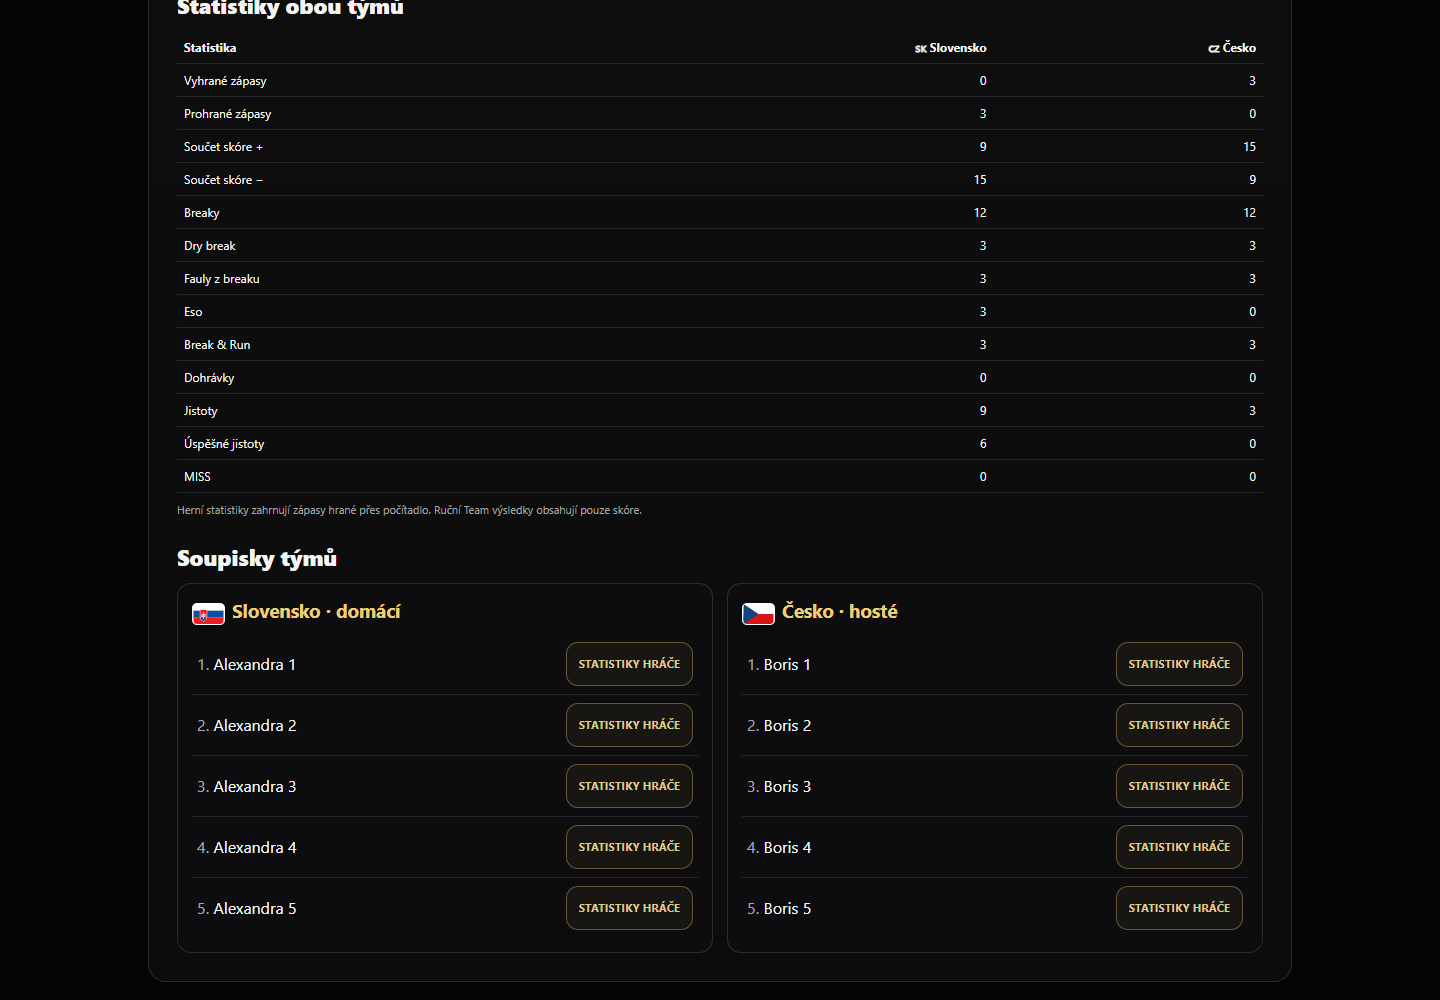
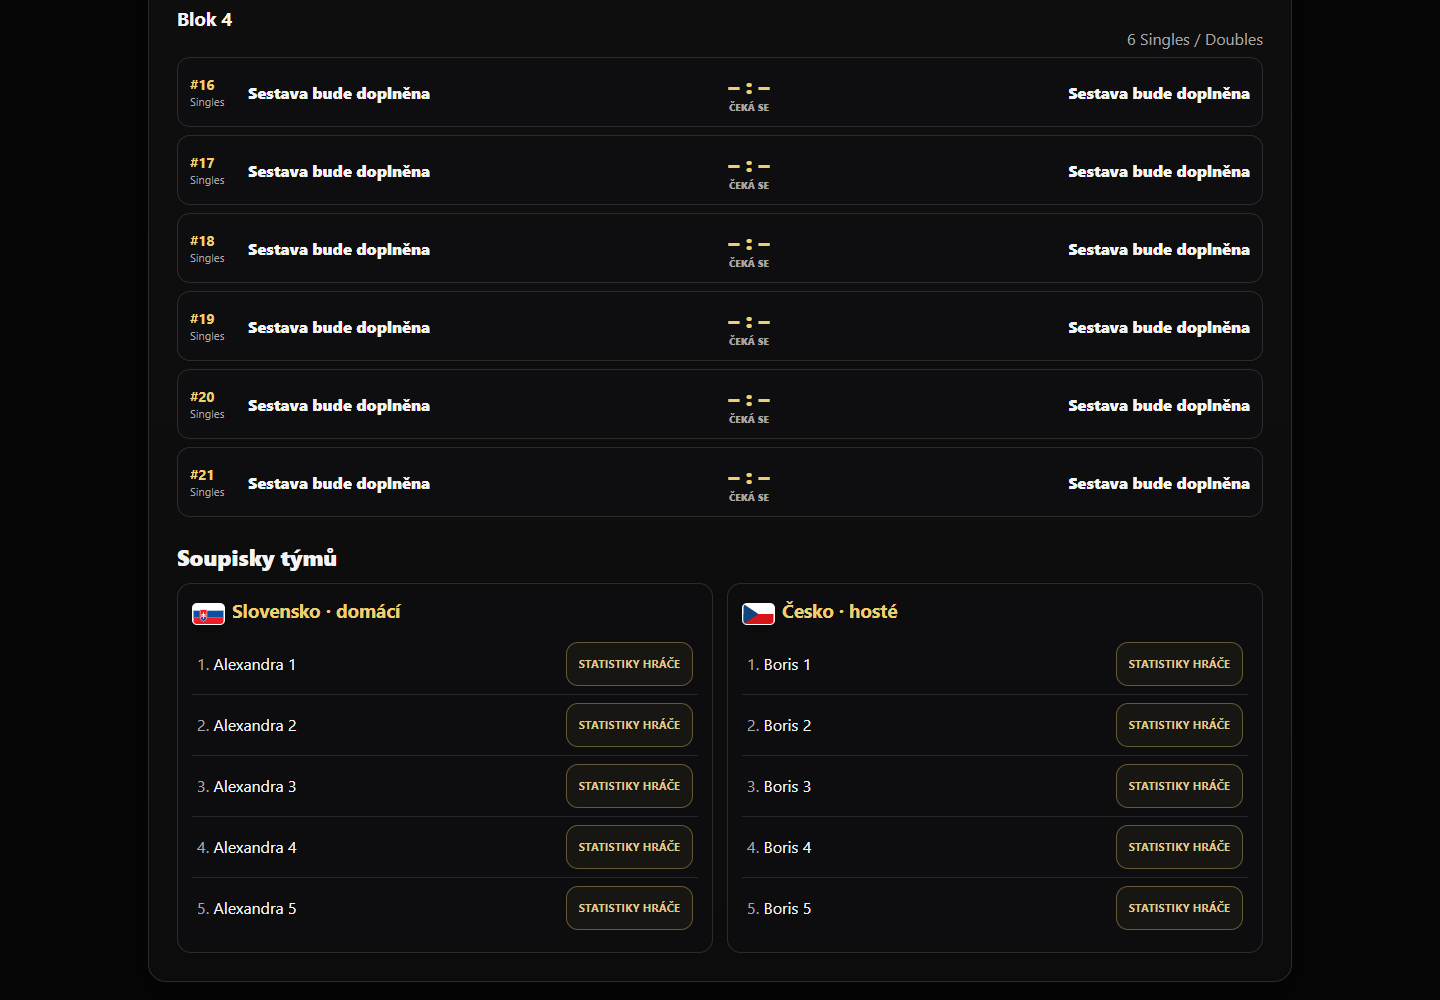
Simplify Federal Cup viewer to available graphical reports

diff --git a/index.html b/index.html
@@ -3132,8 +3132,6 @@ html[data-theme="light"] #leagueSchedule .history-item .muted{
       <div id="fc26ViewerProgress"></div>
       <h2 class="fc26-view-title2">Program a výsledky</h2>
       <div id="fc26ViewerSchedule"></div>
-      <h2 class="fc26-view-title2">Statistiky obou týmů</h2>
-      <div id="fc26ViewerStats"></div>
       <h2 class="fc26-view-title2">Soupisky týmů</h2>
       <div id="fc26ViewerRosters"></div>
       <dialog id="fcReportDialog" aria-labelledby="fcReportDialogTitle">
@@ -30029,11 +30027,12 @@ function renderStats(){
   function renderFederalCupViewer(){
     if(!$('fc26ViewerScoreboard'))return;
     const conf=cfg();
-    const reportYear=Number(conf.year),reportSources=Number.isInteger(reportYear)?federalCalculateSeason(data.matches,conf,reportYear).fixtures:[];
+    const reportYear=Number(conf.year),reportData=Number.isInteger(reportYear)?federalReportData(data.matches,conf,reportYear):null;
+    const reportSources=Number.isInteger(reportYear)?federalCalculateSeason(data.matches,conf,reportYear).fixtures:[];
     const admin=canEdit();
     $('fc26ViewerEditor').classList.toggle('hidden',!admin);
     $('fc26ViewerNotice').textContent=cloudAuthenticated
-      ? 'Aktuální výsledky se pravidelně obnovují. U odehraných Singles a Doubles lze otevřít detailní statistiky.'
+      ? 'Aktuální výsledky se pravidelně obnovují. U dokončených zápasů s uloženým záznamem lze otevřít grafický report.'
       : 'Pro aktuální cloudové výsledky je potřeba přihlášení. Zobrazená data mohou být ze zařízení.';
     const a=teamAggregate(0),b=teamAggregate(1);
     const state=raceState(),done=state.played;
@@ -30060,6 +30059,7 @@ function renderStats(){
     function fixture(f){
       const reportSource=reportSources.find(s=>s.fixtureNo===f.n&&s.source==='detailed');
       const m=reportSource?federalStatsRows(data.matches).filter(m=>m.id===reportSource.matchId&&Number(m.federalCupLink?.year)===reportYear&&Number(m.federalCupLink?.fixtureNo)===f.n&&m.endedAt&&!['incomplete','playing','active'].includes(m.status)).sort((a,b)=>(Date.parse(b.endedAt)||0)-(Date.parse(a.endedAt)||0))[0]:null;
+      const reportAvailable=!!(m&&federalReportOrder(conf)&&reportData.selected.some(s=>s.fixtureNo===f.n&&s.matchId===m.id&&s.source==='detailed')&&['singles','doubles','team'].includes(m.federalCupLink?.type)&&federalReportWinner(m.scores)!==null);
       const r=f.t==='team'?conf.teamResults?.[f.n]:null;
       const l=lineup(f.n);
       const finished=!!m||r?.done===true;
@@ -30078,26 +30078,13 @@ function renderStats(){
         '<div><div class="fc26-view-match-score">'+score+'</div>'+
         '<div class="fc26-view-match-status">'+(outsideResult?'MIMO HODNOCENÍ':cancelled?'NEHRAJE SE':finished?'DOHRÁNO':'ČEKÁ SE')+'</div></div>'+
         '<div class="fc26-view-match-side right">'+esc(String(sideName('b',1)))+'</div>'+
-        '<div class="fc26-view-match-detail">'+reportButton('match','STATISTIKY ZÁPASU','data-fixture="'+f.n+'" data-match-id="'+esc(String(m?.id||''))+'"')+
-        (m?'<button type="button" class="btn" data-fc26-view-match="'+esc(String(m.id||''))+'">DETAILNÍ STATISTIKY ZÁPASU</button>':'')+'</div></div>';
+        (reportAvailable?'<div class="fc26-view-match-detail">'+reportButton('match','STATISTIKY ZÁPASU','data-fixture="'+f.n+'" data-match-id="'+esc(String(m.id))+'"')+'</div>':'')+'</div>';
     }
     $('fc26ViewerSchedule').innerHTML=[1,2,3,4].map(block=>
       '<div class="fc26-block"><div class="fc26-block-head"><h3>Blok '+block+'</h3>'+
       '<span class="muted">'+FIXTURES.filter(f=>f.b===block&&f.t!=='team').length+' Singles / Doubles</span></div>'+
       FIXTURES.filter(f=>f.b===block).map(fixture).join('')+'</div>').join('');
 
-    const stats=[
-      ['Vyhrané zápasy','matchWins'],['Prohrané zápasy','matchLosses'],
-      ['Součet skóre +','racksFor'],['Součet skóre −','racksAgainst'],
-      ['Breaky','breaks'],['Dry break','dryBreaks'],['Fauly z breaku','breakFouls'],
-      ['Eso','aces'],['Break & Run','breakAndRun'],['Dohrávky','runouts'],
-      ['Jistoty','safeties'],['Úspěšné jistoty','successfulSafeties'],['MISS','misses']
-    ];
-    $('fc26ViewerStats').innerHTML='<div style="overflow:auto"><table class="fc26-stat-table">'+
-      '<thead><tr><th>Statistika</th><th>🇸🇰 Slovensko</th><th>🇨🇿 Česko</th></tr></thead><tbody>'+
-      stats.map(([label,key])=>'<tr><td>'+esc(label)+'</td><td>'+a[key]+'</td><td>'+b[key]+'</td></tr>').join('')+
-      '</tbody></table></div>'+
-      '<div class="muted" style="font-size:11px;margin-top:9px">Herní statistiky zahrnují zápasy hrané přes počítadlo. Ruční Team výsledky obsahují pouze skóre.</div>';
     const rosterHtml=(side,title)=>'<div class="fc26-view-roster"><h3>'+title+'</h3>'+
       roster(side).map((name,i)=>'<div class="fc26-view-roster-line"><span class="fc-report-roster-name"><span class="muted">'+(i+1)+'.</span> '+
         esc(String(participantName(side,name)||'Bude doplněno'))+'</span>'+(name?reportButton('player','STATISTIKY HRÁČE','data-person="'+esc(String(conf['rosterParticipantIds'+(side==='a'?'A':'B')]?.[i]||''))+'"'):'')+'</div>').join('')+'</div>';
@@ -30124,10 +30111,6 @@ function renderStats(){
   $('fc26ViewerRefresh')?.addEventListener('click',refreshFederalCupViewer);
   $('fc26ViewerEditor')?.addEventListener('click',()=>{if(canEdit())showScreen('federal-cup-editor')});
   $('fc26EditorBack')?.addEventListener('click',()=>showScreen('federal-cup-2026'));
-  $('fc26ViewerSchedule')?.addEventListener('click',e=>{
-    const btn=e.target.closest('[data-fc26-view-match]');
-    if(btn?.dataset.fc26ViewMatch)showSavedMatchStats(btn.dataset.fc26ViewMatch);
-  });
   setInterval(()=>{
     if(!document.hidden&&$('screen-federal-cup-2026')?.classList.contains('active'))refreshFederalCupViewer();
   },25000);

diff --git a/docs/federal-reports-stage-3b.md b/docs/federal-reports-stage-3b.md
@@ -2,7 +2,28 @@
 
 Kandidát **v4.51.90 RC**, pokračování stejného vydání a stejného PR #28. **Finální vizuální iterace nad ea5d6e0, kód 238a1cfff546384a20bdba4fe1c5a1f54f927045 otestován a pushnut ve stejném otevřeném PR #28; nesloučeno, nenasazeno.** Produkce zůstává v4.51.89 RC. Reference přibyly jako commity 209af0d a 5c6ce04; bezpečný fast-forward zachoval všechny lokální rozpracované úpravy 3B.
 
-## Finální revize UI a exportů (Dominik, 23. 10. 2026)
+## Aktuální zjednodušení vieweru (Dominik, 23. 10. 2026)
+
+Stejná větev a PR #28 nad a621cd9, main f6c3e0f / produkce 89. Kandidát **v4.51.90 RC** zůstává nevydaný. Lokálně otestováno: 69/69 výpočty, Node 179/181 pouze známé dvě test-modular chyby; report/UI, Federal Cup, detailní počítadlo, stream-controls/isolation/lag/release-version a skutečné PNG/PDF reportů i původní PDF exporty PASS. A1/A2/B PNG bajtově shodné se schválenými; PDF 1×16:9 a přesné vložené pixely. CI čeká na push. **Neslučovat a nenasazovat.** Následující oddíl nahrazuje dřívější chování 21 zápasových tlačítek popsané v historické revizi níže.
+
+Viewer nyní tvoří pouze tabule reprezentací, program/výsledky a přímo navazující soupisky. Není zde nadpis/tabulka/poznámka Statistiky obou týmů ani původní detailní tlačítko. A1 STATISTIKY ZÁPASU je právě jedno a pouze u dostupného dokončeného uloženého zápasu. Používá existující selector reportu (rok, fixture, ID, stav, platný výsledek/typ, hostitel, hodnocená série); neodehrané, ruční výsledky bez detailu a zápasy mimo sérii tlačítko nemají. Ochrana proti zastaralému ID při otevření zůstává. A2 a B beze změny, stejně jako admin a staré detailní statistiky jinde v aplikaci.
+
+Aktuální syntetické screenshoty skutečného index.html (desktop 1440×1000, mobil 390×844):
+
+| Pohled | Soubor |
+| --- | --- |
+| Desktop celý přehled | [Přehled](screenshots/federal-ui-desktop-overview.png) |
+| Desktop program | [Zápasy](screenshots/federal-ui-desktop-matches.png) |
+| Desktop soupisky | [Soupisky](screenshots/federal-ui-desktop-players.png) |
+| Mobil celý přehled | [Přehled](screenshots/federal-ui-mobile-entries.png) |
+| Mobil program | [Zápasy](screenshots/federal-ui-mobile-matches.png) |
+| Mobil soupisky | [Soupisky](screenshots/federal-ui-mobile-players.png) |
+
+`npm run test:federal-report-ui` znovu pořizuje tyto i původní dialog/tabule screenshoty. Report browser navíc ověřuje dostupnost a skutečné otevření starých detailních statistik z Historie. PNG/PDF generátor a vizuální šablony se touto změnou nemění. Veškerá síť při testech izolována; žádné testovací zápisy do produkční Firebase.
+
+## Historická finální revize UI a exportů (před zjednodušením)
+
+
 
 Zadavatel potvrdil vizuální schválení A1/A2/B. Tato revize neprovádí redesign a nezasahuje do výpočtů. Výchozí hlava b5d66d8, po čerstvém fetchi main stále f6c3e0f; stejný nevydaný kandidát v4.51.90 RC a stejný PR #28. **Otestováno a pushnuto jako b8ff6187e628b64ce18873e31bef896c0c4fc575; nesloučeno, nenasazeno.** Ke společnému přijetí nyní čeká skutečné ovládání v aplikaci.
 

diff --git a/PROJECT_STATUS.md b/PROJECT_STATUS.md
@@ -4,6 +4,11 @@ Aktualizace: 23. 10. 2026. Zadavatel aktuální revize: **Dominik**.
 
 ## Verze a nasazení
 
+- **Zjednodušení Federal Cupu v4.51.90 RC (Dominik, 23. 10. 2026), stejný PR #28.** Aktuální výchozí hlava a621cd9 a main f6c3e0f ověřeny fetchem; zachována existující větev i necommitnuté output/tmp. Viewer má jen tabuli reprezentací → program/výsledky → soupisky. Staré DETAILNÍ STATISTIKY ZÁPASU a Statistiky obou týmů odstraněny pouze z vieweru. A1 je jediná zápasová akce a jen pro dostupný dokončený uložený report; neodehrané, neplatné, ruční bez detailu a zápasy mimo hodnocenou sérii nemají tlačítko. A2/B a staré detaily mimo viewer zachovány. Grafika, výpočty, admin, Firebase/počítadlo/stream beze změny. Data 69/69, Node 179/181 pouze známé dvě chyby; nové report/UI kontroly desktop/mobil a skutečný vstup starých statistik z Historie PASS. Federal Cup, detailní počítadlo, stream-controls/isolation/lag/release-version a skutečné PNG/PDF všech tří reportů desktop/mobil i čtyři původní PDF exporty PASS. Schválené PNG bajtově nezměněné; PDF 1×16:9 a přesné vložené pixely ověřeny. Výpočty a report/export kód bajtově nezměněny. CI čeká na push. **Otestováno, připraveno k pushi; nesloučeno a nenasazeno. Produkce v4.51.89 RC.** Screenshoty a reprodukce v docs/federal-reports-stage-3b.md.
+
+Následuje zachovaný stav předchozí revize:
+
+
 - **Finální revize reportů a UI v4.51.90 RC (Dominik, 23. 10. 2026), stále PR #28.** Výchozí b5d66d8 i main f6c3e0f ověřeny čerstvým fetchem; původní lokální artefakty zachovány, bez nové větve. Finální UI kód **b8ff6187e628b64ce18873e31bef896c0c4fc575** otestován a pushnut. Schválené SVG A1/A2/B a výpočty beze změny. Technické texty/ID/seznamy pouze v rozbalovací nápovědě, čistý export s dostupnou evidencí a část/—, bez VYBRANÁ REPREZENTACE; sjednocen BC branding. Tři existující FC vstupy mají 44px výšku, zarovnání a rozestupy, mobilní zoom posouvá jen náhled. Šest skutečných UI pohledů a mobilní detaily v docs/screenshots/, přehled v docs/federal-reports-stage-3b.md. Data 69/69, Node 179/181 jen známé dvě chyby; UI/report browser a Federal Cup/detailed/stream regrese PASS. Skutečné PNG/PDF A1/A2/B i všechny mobilní DPR3 exporty PASS; PDF jedna strana 16:9 a přesné pixely PNG. Kontrola čistých textů, neúplnosti a jediného renderu při dvojkliku PASS. Release gate po čerstvém main f6c3e0f a diff --check PASS; [CI finální UI revize b8ff618](https://github.com/bcrybarna-oss/BC-Rybarna-Scoreboard/actions/runs/39909089440): Release version and revision **success**, Node **179/181 failure**. Log ověřen: právě dvě známá nezměněná selhání preview-match-reload-recovery.test.cjs:50,106 v test-modular; žádná nová regrese. CI není plně zelené. Následný dokumentační commit nemění otestované HTML. **Bez merge/deploy; produkce v4.51.89 RC. Grafika odsouhlasená, čeká schválení ovládání.**
 
 Následuje zachovaný stav předchozí vizuální iterace:

diff --git a/REVIZE.md b/REVIZE.md
@@ -1,5 +1,13 @@
 # Revize aplikace Poolčítadlo
 
+## Dominik – zjednodušení diváckého Federal Cupu (v4.51.90 RC)
+Zadavatel: Dominik
+Datum: 23. 10. 2026
+Změny: Pokračování stejného nevydaného kandidáta a PR #28 nad a621cd9; main po čerstvém fetchi f6c3e0f, produkce v4.51.89 RC. Divácký přehled obsahuje tabuli reprezentací, program/výsledky a přímo navazující soupisky. Odstraněna prezentace Statistiky obou týmů i původní DETAILNÍ STATISTIKY ZÁPASU a jejich viewer listener. Jediné STATISTIKY ZÁPASU se vykreslí jen pro dokončený uložený zápas dostupný podle stávajícího výběru A1 (rok, fixture, ID, platný typ/výsledek, hostitel, hodnocená série). A2/B zachovány. Schválený design, 13 výpočtů, podkladové agregace, admin, staré detailní statistiky mimo viewer, Firebase, počítadlo a stream neměněny. Aktualizované desktop/mobil screenshoty se syntetickými daty.
+Testy: Výpočty 69/69; plná Node sada 179/181, výhradně dvě známá selhání preview-match-reload-recovery.test.cjs:50,106 v test-modular. Report browser a skutečné desktop/mobil UI PASS: jeden A1 u dokončených, žádný u neodehraných/aktivních/bez endedAt/neplatných/ručních bez detailu/neznámého hostitele/mimo sérii; nahrazené ID odmítnuto. Staré statistiky otevřeny skutečným tlačítkem Historie. Odstraněné prvky nepřítomny, soupisky přímo po programu, identity/barvy/13 metrik/partial/unknown, focus/Close/Escape a mobilní zoom zachovány. Federal Cup, detailní počítadlo, stream-controls, stream-isolation, stream-lag a release-version browser PASS. Skutečné PNG/PDF A1/A2/B desktop/mobil DPR3 a původní čtyři PDF exporty PASS. PNG všech tří reportů bajtově shodné se schválenými docs/screenshots; pypdf ověřil jednu stránku 1440×810 a přesné pixely vloženého PNG 1920×1080, Poppler A1 vizuálně ověřen. Výpočty a report/export kód bajtově shodné s a621cd9. CI této úpravy zatím čeká na push, není deklarováno jako zelené.
+Nasazení: Otestováno a připraveno k pushi v existující větvi PR #28. Release gate po čerstvém fetchi main f6c3e0f a diff --check PASS. Bez merge/deploy dle zadání, produkce zůstává v4.51.89 RC. Žádné produkční testovací zápisy.
+Omezení: Skutečné ovládání čeká na schválení Dominikem. Fyzické telefony/iOS a produkční Auth/Firebase/OBS neověřeny. Známé modularizační chyby zachovány a vykázány. Screenshoty jsou izolovaná syntetická data.
+
 ## Dominik – finální revize ovládání a čistých exportů Federal Cupu (v4.51.90 RC)
 Zadavatel: Dominik
 Datum: 23. 10. 2026

diff --git a/PROJECT_CONTEXT.md b/PROJECT_CONTEXT.md
@@ -8,6 +8,9 @@ Každá samostatně nasazovaná funkční i vizuální změna povinně zvyšuje 
 
 ## Repozitář a produkce
 
+Divácký Federal Cup od zjednodušení kandidáta 90 (Dominik, 23. 10. 2026) používá výhradně grafické reporty: tabule A2, program A1, soupisky B. A1 tlačítko jen pro dostupný dokončený uložený zápas podle stejného výběru jako dialog, včetně hodnocené série; změna dat mezi vykreslením a kliknutím zůstává chráněná kontrolou dialogu. Ruční výsledek bez detailu či neodehraný zápas nemá A1. Staré detailní statistiky a podkladové agregace existují dál pro ostatní části i admin; viewer nemá jejich listener ani starou týmovou tabulku. Soupisky následují přímo po programu. Grafika a výpočty reportů se tím nemění.
+
+
 Od finální revize kandidáta 90 (Dominik, 23. 10. 2026) je publikovaný list oddělený od technické nápovědy: PNG/PDF neobsahují interní ID/API/zdrojové výpisy, stručná poznámka a část/— zachovávají informaci o úplnosti. Zdroje, identity a pravidla osobních výsledků/výkonu zůstávají v rozbalovacím details dialogu mimo plátno. Mobilní zoom má vlastní posuvnou oblast, takže ovládací tlačítka zůstávají dostupná. Existující FC vstupy a stabilní identity zachovány, minimálně upraveno jen zarovnání/rozestupy/dotyková velikost. Grafika A1/A2/B schválená, ovládání k revizi; bez merge/deploy.
 
 Finální vizuální iterace stejného kandidáta 90: A1/A2 sdílejí dekorativní SVG rámy a dynamický SVG text skóre s měřením šířky, B vlastní kartu a % VÝHER. Metrika escapeSuccess se v reportech jmenuje Úspěšnost úniků z jistot; oba přejmenované texty nemění vzorce. Titulky a ztmavení/vinětace jsou SVG kvůli shodě náhledu a html2canvas. Fotopodklad, výpočty, herní data, synchronizace i stream beze změny. Podrobné porovnání a aktuální stav v docs/federal-reports-stage-3b.md / PROJECT_STATUS.md.
